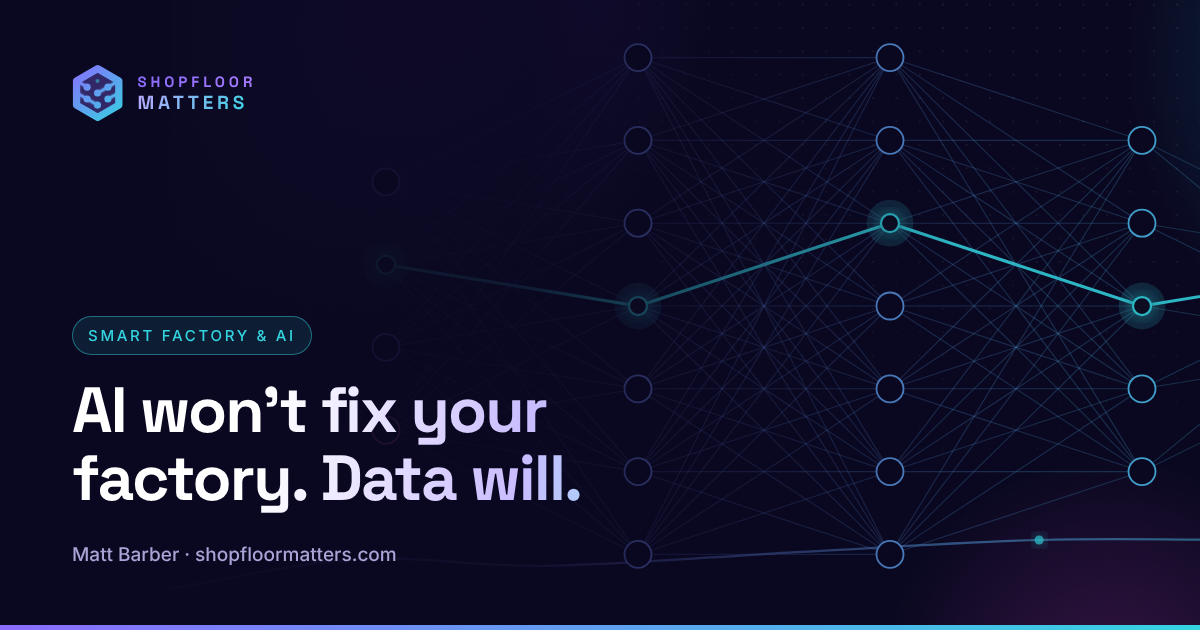
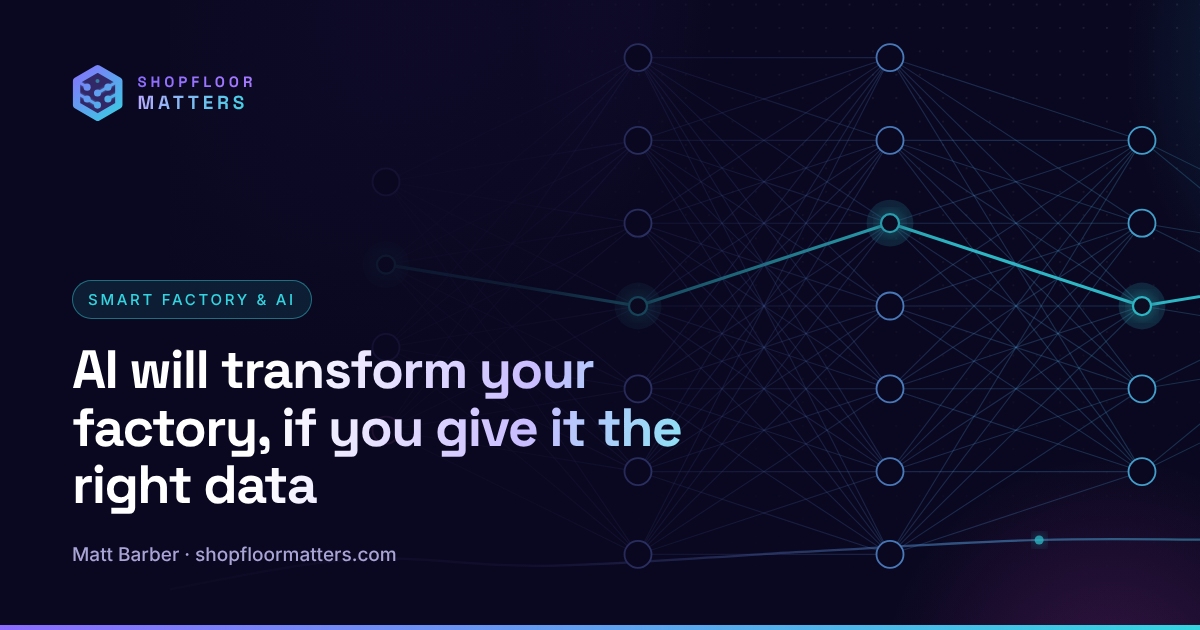
AI article and talk: AI-positive framing with the LLM and internet analogy; titles and links updated
Claude-Session: https://claude.ai/code/session_01Y4SNSUs71veJ37BenGhXFE

Changed region(s): [[0.0617, 0.4524, 0.5858, 0.8143]]

diff --git a/content/posts/ai-needs-shopfloor-data.md b/content/posts/ai-needs-shopfloor-data.md
@@ -1,16 +1,16 @@
 ---
-title: "AI won't fix your factory. Data will."
+title: "AI will transform your factory, if you give it the right data"
 short: "AI on the shopfloor"
-description: "AI that predicts and optimises operations learns from shopfloor data. What a good data foundation looks like, and where AI already delivers."
+description: "AI can transform a factory when it has the right data and context to learn from. What a good data foundation looks like, and where AI already delivers."
 published: 2023-07-22
 updated: 2026-10-25
 category: thought-leadership
 art: mesh
 ---
 
-AI can genuinely transform manufacturing. But AI that predicts and optimises a factory learns from that factory's data, and in most plants that data is incomplete or missing its context.
+AI will transform manufacturing. It can predict failures before they happen, find the settings that cut scrap and help every operator work like your best one. What it needs from you is the right data, with the right context.
 
-Large language models are a useful comparison. They learned from decades of text that people put online. Without that material, even the most advanced model would have nothing to learn from. A factory works the same way: its shopfloor data is what AI learns from. Without it, AI can tell you a lot about factories in general, and very little about yours.
+Large language models show why. The technology is remarkable, but on its own it would be close to useless. What made it so capable was the internet: decades of text that people put online for it to learn from. Your shopfloor data plays the same role for your factory. Give AI accurate, contextualised data about your operation and it can do remarkable things with it. Without that data, it can tell you a lot about factories in general, and very little about yours.
 
 ## The slide everyone wants
 
@@ -27,7 +27,7 @@ Behind that line sits a long list of prerequisites:
 - A team that trusts the numbers
 - A use case and a hypothesis to test
 
-AI is the last line. Many organisations want to invest in it before the processes and data that let it succeed, while still struggling to record downtime reasons accurately.
+AI is the line that delivers the biggest gains, and the lines above it are what make those gains possible. The organisations that get the most from AI invest in both.
 
 ## AI isn't a black box
 
@@ -86,6 +86,6 @@ Start with a question rather than a model: what decision would you make differen
 
 ## My view
 
-I believe AI can genuinely transform manufacturing, but only if the basics are right first. I've sat through many conferences where everyone talks about AI, and then the question about MES/MOM strategy, or how shopfloor data is collected, meets silence or a slide about a pilot. AI won't fix your factory. The data foundation makes it possible, and then AI makes it much better. Skip the foundation for operational AI and you're likely to be back at the start in two years, with an expensive pilot to explain.
+I'm genuinely excited about what AI will do for manufacturing. AI will fix your factory, provided you give it the right data and context, in the same way that large language models only became useful once they had the internet to learn from. The manufacturers who'll get the most from it are the ones building that foundation now: defined processes, MES/MOM on the shopfloor and contextualised data that builds up over time. Start GenAI on your documents today, and build the data that lets AI predict and optimise alongside it.
 
 What's the one decision in your factory you'd most like AI to help with, and do you have the data for it yet?

diff --git a/content/posts/time-to-truth.md b/content/posts/time-to-truth.md
@@ -87,7 +87,7 @@ With digitalised point solutions, it's modest. AI can make sense of data people 
 
 Then the curve bends. Once the truth arrives "right now", with its context, AI can learn from your own operations, spotting anomalies and finding root causes. A copilot can explain why Line 3 stopped from the facts, not a guess. With harmonious systems it predicts and optimises across the whole stack, because planning, engineering, quality and maintenance data finally line up: maintenance is planned from the bearing's condition, and the schedule moves around it. At "before anyone asks", agents prepare the action and people approve it. And at "without asking", AI acts on routine decisions within agreed limits. That only holds up because everything underneath it does.
 
-So the value grows with each stage, and most of it sits in the last few. That's why the order matters. Prediction needs history, and history needs data captured accurately and automatically, with its context. You can't get to "before it happens" from "eventually". I go further into this in [AI won't fix your factory](/post/ai-needs-shopfloor-data).
+So the value grows with each stage, and most of it sits in the last few. That's why the order matters. Prediction needs history, and history needs data captured accurately and automatically, with its context. You can't get to "before it happens" from "eventually". I go further into this in [AI will transform your factory, if you give it the right data](/post/ai-needs-shopfloor-data).
 
 ## Where most factories are
 

diff --git a/content/posts/history-of-mes.md b/content/posts/history-of-mes.md
@@ -67,7 +67,7 @@ Demand for MES/MOM has grown with that shift, yet many manufacturers, especially
 
 Each step built on the one before. Control systems made automation possible, and MES/MOM later brought shopfloor data together with its context.
 
-AI follows the same pattern. Models that predict and optimise operations need reliable, contextualised data first. Most factories today sit somewhere between paper-based and partly digital, and the path forward runs through that data foundation. The stages are described in [Time to truth](/post/time-to-truth), and where AI fits in [AI won't fix your factory. Data will.](/post/ai-needs-shopfloor-data)
+AI follows the same pattern. Models that predict and optimise operations need reliable, contextualised data first. Most factories today sit somewhere between paper-based and partly digital, and the path forward runs through that data foundation. The stages are described in [Time to truth](/post/time-to-truth), and where AI fits in [AI will transform your factory, if you give it the right data](/post/ai-needs-shopfloor-data)
 
 ## My view
 

diff --git a/content/posts/how-to-modernise-a-factory.md b/content/posts/how-to-modernise-a-factory.md
@@ -116,7 +116,7 @@ Once the first area works, turn what you built into a template: standard process
 
 Notice where AI sits in this list.
 
-That isn't because I'm sceptical about it. I believe AI can genuinely transform manufacturing. But it learns from your shopfloor data, and until steps 1 to 10 are in place, there isn't much reliable data to learn from. GenAI can help earlier, with shift summaries and plain-English questions about your procedures. Predictive and optimising AI needs the foundation first. More in [AI won't fix your factory](/post/ai-needs-shopfloor-data).
+That isn't because I'm sceptical about it. I believe AI can genuinely transform manufacturing. But it learns from your shopfloor data, and until steps 1 to 10 are in place, there isn't much reliable data to learn from. GenAI can help earlier, with shift summaries and plain-English questions about your procedures. Predictive and optimising AI needs the foundation first. More in [AI will transform your factory, if you give it the right data](/post/ai-needs-shopfloor-data).
 
 ## The checklist
 

diff --git a/content/posts/what-is-mes.md b/content/posts/what-is-mes.md
@@ -103,7 +103,7 @@ Who benefits, role by role, is covered in [Who benefits from MES?](/post/who-ben
 
 AI and machine learning need accurate, contextualised data collected over time. A machine signal that says "stopped" means little on its own. MES/MOM turns it into "Line 7 stopped at 14:23 during order 4521, on night shift, for 12 minutes, because of a jam at station 2, for the third time in 48 hours." That's data a model can learn from.
 
-The broader the scope, the richer the context. Quality results linked to process parameters and maintenance history are the data that predictive quality and predictive maintenance are built on. More in [AI won't fix your factory. Data will.](/post/ai-needs-shopfloor-data)
+The broader the scope, the richer the context. Quality results linked to process parameters and maintenance history are the data that predictive quality and predictive maintenance are built on. More in [AI will transform your factory, if you give it the right data](/post/ai-needs-shopfloor-data)
 
 ## Which term should you use?
 

diff --git a/content/posts/smart-factory-where-to-start.md b/content/posts/smart-factory-where-to-start.md
@@ -79,7 +79,7 @@ Two cautions. Don't pick a line purely because it's the worst performer if its p
 ## What not to do in the first 90 days
 
 - **Don't buy software in month one.** You don't know your requirements yet.
-- **Don't start with AI.** It needs the data foundation you haven't built yet. Run GenAI experiments on documents if you like, but don't make them the plan. See [AI won't fix your factory](/post/ai-needs-shopfloor-data).
+- **Plan for AI, and build what it needs first.** AI that predicts and optimises needs the data foundation you're about to build. GenAI on your documents can start straight away, alongside it. See [AI will transform your factory, if you give it the right data](/post/ai-needs-shopfloor-data).
 - **Don't pilot a point solution you couldn't scale.** A pilot that becomes a silo costs you twice.
 - **Don't leave the shopfloor out.** People support what they helped create. See [Resistance to change is guaranteed](/post/manufacturing-change-management).
 

diff --git a/content/posts/smart-manufacturing-myths.md b/content/posts/smart-manufacturing-myths.md
@@ -17,7 +17,7 @@ It won't. Not without a data foundation.
 
 Most manufacturers still struggle to capture accurate, contextualised data from the shopfloor, but their expectations are already at AI level. You can't build predictive or optimising AI on manual entries, estimates and delayed ERP transactions. Generative AI can help sooner, by working on your documents, procedures, maintenance notes and shift logs. But it can't conjure up operational data that was never captured. Get the processes defined and the data flowing, run GenAI pilots alongside, and AI can deliver.
 
-More on this in [AI won't fix your factory](/post/ai-needs-shopfloor-data).
+More on this in [AI will transform your factory, if you give it the right data](/post/ai-needs-shopfloor-data).
 
 ## 2. "Excel is good enough"
 
